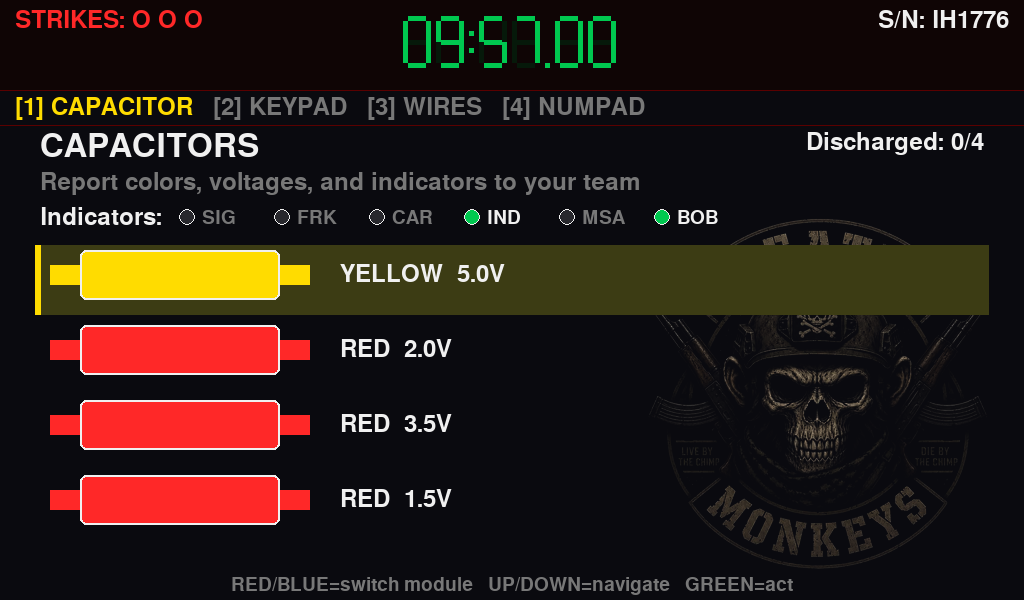
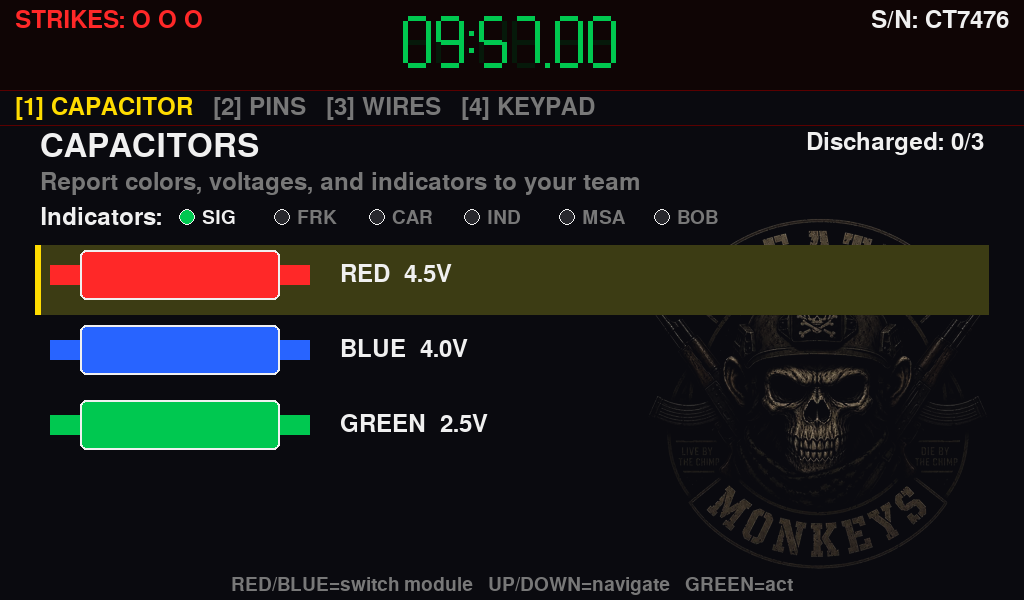
Map physical joystick buttons and fix missile launch START dependency
- Switch input handler from keyboard to DragonRise USB joystick events
- Store joystick references on App to prevent garbage collection dropping events
- Keep keyboard fallback (KEY_MAP) for dev/testing
- Missile launch: replace START with BLUE_BUTTON for code arm/transmit actions

diff --git a/modes/respawn_pool.py b/modes/respawn_pool.py
@@ -1,0 +1,192 @@
+import pygame
+import time
+from game_mode import GameMode
+from settings import COLORS, SCREEN_WIDTH, SCREEN_HEIGHT
+from widgets import draw_7seg_time
+from ui import draw_menu_item
+from presets import timer_presets
+
+TIMER_PRESETS = timer_presets(include_off=True)
+
+MIN_RESPAWNS = 1
+MAX_RESPAWNS = 99
+
+
+class RespawnPoolMode(GameMode):
+    name = "Respawn Pool"
+    mode_id = "respawn_pool"
+    description = "Track a shared pool of respawns for the whole team"
+
+    def setup(self, config=None):
+        config = config or {}
+        self.font_title = pygame.font.Font(None, 80)
+        self.font_big = pygame.font.Font(None, 220)
+        self.font_med = pygame.font.Font(None, 52)
+        self.font_sm = pygame.font.Font(None, 36)
+        self.respawn_selection = 10
+        self.timer_selection = 0
+        self.custom_minutes = 10
+        self.total_respawns = 0
+        self.remaining = 0
+        self.timer_total = 0
+        self.timer_remaining = 0
+
+        if "respawns" in config:
+            self._start_play(config["respawns"], config.get("timer", 0))
+        else:
+            self.phase = "setup_count"
+
+    def handle_input(self, actions):
+        if self.phase == "setup_count":
+            self._handle_setup_count(actions)
+        elif self.phase == "setup_timer":
+            self._handle_setup_timer(actions)
+        elif self.phase == "setup_custom":
+            self._handle_setup_custom(actions)
+        elif self.phase == "play":
+            self._handle_play(actions)
+
+    def _handle_setup_count(self, actions):
+        if "UP" in actions:
+            self.respawn_selection = min(MAX_RESPAWNS, self.respawn_selection + 1)
+        if "DOWN" in actions:
+            self.respawn_selection = max(MIN_RESPAWNS, self.respawn_selection - 1)
+        if "START" in actions or "GREEN_BUTTON" in actions:
+            self.phase = "setup_timer"
+
+    def _handle_setup_timer(self, actions):
+        if "UP" in actions:
+            self.timer_selection = (self.timer_selection - 1) % len(TIMER_PRESETS)
+        if "DOWN" in actions:
+            self.timer_selection = (self.timer_selection + 1) % len(TIMER_PRESETS)
+        if "RED_BUTTON" in actions:
+            self.phase = "setup_count"
+        if "START" in actions or "GREEN_BUTTON" in actions:
+            preset = TIMER_PRESETS[self.timer_selection][1]
+            if preset is None:
+                self.phase = "setup_custom"
+            else:
+                self._start_play(self.respawn_selection, preset)
+
+    def _handle_setup_custom(self, actions):
+        if "UP" in actions:
+            self.custom_minutes = min(99, self.custom_minutes + 1)
+        if "DOWN" in actions:
+            self.custom_minutes = max(1, self.custom_minutes - 1)
+        if "RED_BUTTON" in actions:
+            self.phase = "setup_timer"
+        if "START" in actions or "GREEN_BUTTON" in actions:
+            self._start_play(self.respawn_selection, self.custom_minutes * 60)
+
+    def _start_play(self, respawns, timer_seconds):
+        self.total_respawns = respawns
+        self.remaining = respawns
+        self.timer_total = timer_seconds
+        self.timer_remaining = timer_seconds
+        self.phase = "play"
+        self.play_start_time = time.time()
+
+    def _handle_play(self, actions):
+        if "GREEN_BUTTON" in actions and self.remaining > 0:
+            self.remaining -= 1
+            self.app.sound.play("confirm")
+        if "RED_BUTTON" in actions and self.remaining < self.total_respawns:
+            self.remaining += 1
+        if "START" in actions:
+            self.remaining = self.total_respawns
+            self.timer_remaining = self.timer_total
+            self.play_start_time = time.time()
+
+    def update(self, dt):
+        if self.phase == "play" and self.timer_total > 0:
+            self.timer_remaining = max(0.0, self.timer_remaining - dt)
+
+    def draw(self, screen):
+        if self.phase == "setup_count":
+            self._draw_setup_count(screen)
+        elif self.phase == "setup_timer":
+            self._draw_setup_timer(screen)
+        elif self.phase == "setup_custom":
+            self._draw_setup_custom(screen)
+        elif self.phase == "play":
+            self._draw_play(screen)
+
+    def _draw_setup_count(self, screen):
+        title = self.font_title.render("RESPAWN POOL", True, COLORS["yellow"])
+        screen.blit(title, title.get_rect(centerx=SCREEN_WIDTH // 2, y=30))
+
+        sub = self.font_sm.render("Set number of respawns", True, COLORS["white"])
+        screen.blit(sub, sub.get_rect(centerx=SCREEN_WIDTH // 2, y=110))
+
+        val = self.font_big.render(str(self.respawn_selection), True, COLORS["green"])
+        screen.blit(val, val.get_rect(center=(SCREEN_WIDTH // 2, SCREEN_HEIGHT // 2 - 20)))
+
+        hints = self.font_sm.render(
+            "UP/DOWN=adjust  START/GREEN=next", True, COLORS["grey"]
+        )
+        screen.blit(hints, hints.get_rect(centerx=SCREEN_WIDTH // 2, y=SCREEN_HEIGHT - 40))
+
+    def _draw_setup_timer(self, screen):
+        title = self.font_title.render("RESPAWN POOL", True, COLORS["yellow"])
+        screen.blit(title, title.get_rect(centerx=SCREEN_WIDTH // 2, y=30))
+
+        sub = self.font_sm.render("Set an optional timer", True, COLORS["white"])
+        screen.blit(sub, sub.get_rect(centerx=SCREEN_WIDTH // 2, y=110))
+
+        col_x = [200, 560]
+        row_h = 55
+        top = 150
+        per_col = (len(TIMER_PRESETS) + 1) // 2
+        for i, (label, _secs) in enumerate(TIMER_PRESETS):
+            x = col_x[i // per_col]
+            y = top + (i % per_col) * row_h
+            draw_menu_item(screen, self.font_med, label, i == self.timer_selection, x, y)
+
+        hints = self.font_sm.render(
+            "UP/DOWN=select  START/GREEN=confirm  RED=back", True, COLORS["grey"]
+        )
+        screen.blit(hints, hints.get_rect(centerx=SCREEN_WIDTH // 2, y=SCREEN_HEIGHT - 40))
+
+    def _draw_setup_custom(self, screen):
+        title = self.font_title.render("RESPAWN POOL", True, COLORS["yellow"])
+        screen.blit(title, title.get_rect(centerx=SCREEN_WIDTH // 2, y=30))
+
+        sub = self.font_sm.render("Set custom timer", True, COLORS["white"])
+        screen.blit(sub, sub.get_rect(centerx=SCREEN_WIDTH // 2, y=110))
+
+        val = self.font_med.render(f"{self.custom_minutes:02d}:00", True, COLORS["green"])
+        screen.blit(val, val.get_rect(center=(SCREEN_WIDTH // 2, SCREEN_HEIGHT // 2 - 10)))
+
+        label = self.font_sm.render("MINUTES", True, COLORS["grey"])
+        screen.blit(label, label.get_rect(centerx=SCREEN_WIDTH // 2, y=SCREEN_HEIGHT // 2 + 50))
+
+        hints = self.font_sm.render(
+            "UP/DOWN=adjust  START/GREEN=confirm  RED=back", True, COLORS["grey"]
+        )
+        screen.blit(hints, hints.get_rect(centerx=SCREEN_WIDTH // 2, y=SCREEN_HEIGHT - 40))
+
+    def _draw_play(self, screen):
+        title = self.font_med.render("RESPAWNS REMAINING", True, COLORS["white"])
+        screen.blit(title, title.get_rect(centerx=SCREEN_WIDTH // 2, y=40))
+
+        color = COLORS["red"] if self.remaining == 0 else COLORS["green"]
+        count = self.font_big.render(str(self.remaining), True, color)
+        screen.blit(count, count.get_rect(center=(SCREEN_WIDTH // 2, SCREEN_HEIGHT // 2 - 30)))
+
+        of_total = self.font_sm.render(f"of {self.total_respawns}", True, COLORS["grey"])
+        screen.blit(of_total, of_total.get_rect(centerx=SCREEN_WIDTH // 2, y=SCREEN_HEIGHT // 2 + 110))
+
+        if self.timer_total > 0:
+            timer_color = COLORS["red"] if self.timer_remaining < 30 else COLORS["white"]
+            seg_w, seg_h, seg_t, seg_gap = 18, 32, 4, 4
+            timer_pixel_w = 6 * (seg_w + seg_gap) + 2 * (seg_t + seg_gap)
+            draw_7seg_time(
+                screen, SCREEN_WIDTH // 2 - timer_pixel_w // 2, SCREEN_HEIGHT - 110,
+                self.timer_remaining, timer_color, seg_w, seg_h, seg_t, seg_gap,
+            )
+
+        hints = self.font_sm.render(
+            "GREEN=use respawn  RED=return one  START=reset", True, COLORS["grey"]
+        )
+        screen.blit(hints, hints.get_rect(centerx=SCREEN_WIDTH // 2, y=SCREEN_HEIGHT - 40))
+

diff --git a/game_registry.py b/game_registry.py
@@ -20,7 +20,28 @@ PHASE_OPTIONS = registry_options(PHASE_PRESETS)
 
 _CUSTOM = {"custom_min": CUSTOM_MIN_MINUTES, "custom_max": CUSTOM_MAX_MINUTES}
 
+RESPAWN_OPTIONS = [{"label": str(n), "value": n} for n in (5, 10, 15, 20, 25, 30)]
+
 GAME_MODES = {
+    "respawn_pool": {
+        "name": "Respawn Pool",
+        "description": "Track a shared pool of respawns for the whole team",
+        "settings": {
+            "respawns": {
+                "label": "Respawns",
+                "type": "choice",
+                "options": RESPAWN_OPTIONS,
+                "default": 10,
+            },
+            "timer": {
+                "label": "Timer",
+                "type": "choice",
+                "options": TIMER_OPTIONS_WITH_OFF,
+                "default": 0,
+                **_CUSTOM,
+            },
+        },
+    },
     "comms_hack": {
         "name": "Comms Array Hack",
         "description": "Enter 3 codes to hack the comms array before time runs out",
@@ -117,7 +138,10 @@ def get_mode_info(mode_id):
 
 def get_mode_class(mode_id):
     """Import and return the GameMode class for a mode."""
-    if mode_id == "comms_hack":
+    if mode_id == "respawn_pool":
+        from modes.respawn_pool import RespawnPoolMode
+        return RespawnPoolMode
+    elif mode_id == "comms_hack":
         from modes.comms_hack import CommsHackMode
         return CommsHackMode
     elif mode_id == "bomb_defusal":

diff --git a/settings.py b/settings.py
@@ -4,16 +4,24 @@ SCREEN_WIDTH = 1024
 SCREEN_HEIGHT = 600
 FPS = 30
 
-# USB encoder board button-to-action mapping.
-# Run `python3 -c "import pygame; pygame.init(); s=pygame.display.set_mode((200,200)); [print(e.key) for e in iter(lambda: pygame.event.wait(), None) if e.type==pygame.KEYDOWN]"`
-# to discover your board's keycodes, then update this map.
+# DragonRise Generic USB Joystick button-to-action mapping.
+# Discovered via JoyButtonDown events: button index → action.
 BUTTON_MAP = {
+    0: "BACK",        # Escape / kill match
+    1: "RED_BUTTON",
+    2: "BLUE_BUTTON",
+    3: "GREEN_BUTTON",
+    11: "UP",
+    10: "DOWN",
+}
+
+# Keyboard fallbacks for dev/testing without the joystick.
+KEY_MAP = {
     pygame.K_UP: "UP",
     pygame.K_DOWN: "DOWN",
     pygame.K_1: "RED_BUTTON",
     pygame.K_2: "BLUE_BUTTON",
     pygame.K_3: "GREEN_BUTTON",
-    pygame.K_5: "START",
     pygame.K_RETURN: "START",
     pygame.K_ESCAPE: "BACK",
 }

diff --git a/modes/missile_launch.py b/modes/missile_launch.py
@@ -277,7 +277,7 @@ class MissileLaunchMode(GameMode):
             self.app.sound.play("confirm")
         if "RED_BUTTON" in actions and self.secret_chars:
             self.secret_chars.pop()
-        if "START" in actions and self.secret_chars:
+        if "BLUE_BUTTON" in actions and self.secret_chars:
             self.app.sound.play("confirm")
             self._enter_prep()
 
@@ -289,7 +289,7 @@ class MissileLaunchMode(GameMode):
             self.app.sound.play("confirm")
         if "RED_BUTTON" in actions and self.input_chars:
             self.input_chars.pop()
-        if "START" in actions and self.input_chars:
+        if "BLUE_BUTTON" in actions and self.input_chars:
             if "".join(self.input_chars) == "".join(self.secret_chars):
                 self._begin_countdown()
             else:
@@ -524,7 +524,7 @@ class MissileLaunchMode(GameMode):
         screen.blit(cfg, cfg.get_rect(centerx=SCREEN_WIDTH // 2, y=400))
 
         hints = self.font_sm.render(
-            "UP/DOWN=char  GREEN=add  RED=delete  START=arm system", True, COLORS["grey"])
+            "UP/DOWN=char  GREEN=add  RED=delete  BLUE=arm system", True, COLORS["grey"])
         screen.blit(hints, hints.get_rect(centerx=SCREEN_WIDTH // 2, y=SCREEN_HEIGHT - 38))
 
     def _draw_missile(self, screen, cx, base_y, scale, flame, raised_pct=0.0):
@@ -787,7 +787,7 @@ class MissileLaunchMode(GameMode):
             screen.blit(fa, (130, 490))
 
         hint = self.font_sm.render(
-            "UP/DOWN=char  GREEN=add  RED=delete  START=transmit", True, COLORS["grey"])
+            "UP/DOWN=char  GREEN=add  RED=delete  BLUE=transmit", True, COLORS["grey"])
         screen.blit(hint, hint.get_rect(centerx=SCREEN_WIDTH // 2, y=SCREEN_HEIGHT - 38))
 
     def _draw_countdown(self, screen):
@@ -892,7 +892,7 @@ class MissileLaunchMode(GameMode):
             f"{stat}  |  Failed codes: {self.failed_attempts}", True, COLORS["white"])
         screen.blit(stats, stats.get_rect(center=(SCREEN_WIDTH // 2, SCREEN_HEIGHT // 2 + 70)))
 
-        prompt = self.font_sm.render("Press START to play again", True, COLORS["grey"])
+        prompt = self.font_sm.render("Press GREEN to play again", True, COLORS["grey"])
         screen.blit(prompt, prompt.get_rect(center=(SCREEN_WIDTH // 2, SCREEN_HEIGHT - 50)))
 
     def _save_history(self):

diff --git a/input_handler.py b/input_handler.py
@@ -1,4 +1,5 @@
 import pygame
+from settings import KEY_MAP
 
 
 class InputHandler:
@@ -10,7 +11,10 @@ class InputHandler:
         for event in pygame.event.get():
             if event.type == pygame.QUIT:
                 actions.append("QUIT")
+            elif event.type == pygame.JOYBUTTONDOWN:
+                if event.button in self.button_map:
+                    actions.append(self.button_map[event.button])
             elif event.type == pygame.KEYDOWN:
-                if event.key in self.button_map:
-                    actions.append(self.button_map[event.key])
+                if event.key in KEY_MAP:
+                    actions.append(KEY_MAP[event.key])
         return actions

diff --git a/app.py b/app.py
@@ -14,6 +14,10 @@ SCREENSHOT_FILE = Path(__file__).parent / "data" / "screen.jpg"
 class App:
     def __init__(self, fullscreen=True):
         pygame.init()
+        pygame.joystick.init()
+        self._joysticks = [pygame.joystick.Joystick(i) for i in range(pygame.joystick.get_count())]
+        for j in self._joysticks:
+            j.init()
         self.display = Display(SCREEN_WIDTH, SCREEN_HEIGHT, fullscreen)
         self.input = InputHandler(BUTTON_MAP)
         self.sound = SoundManager()

diff --git a/README.md b/README.md
@@ -4,6 +4,12 @@ Airsoft objective system built on a Raspberry Pi. Runs fullscreen game modes on 
 
 ## Game Modes
 
+### Respawn Pool
+
+A simple shared respawn counter for the whole team. Set how many respawns are in the pool and an optional timer, then use GREEN/RED to spend or return a respawn during the match.
+
+**Settings:** Respawns (5–30), Timer (off, 5–30 min in 5-min steps, or custom)
+
 ### Bomb Defusal
 
 A cooperative puzzle game inspired by *Keep Talking and Nobody Explodes*. One player interacts with the bomb on screen while teammates read the [defusal manual](docs/bomb_defusal_manual.md) over radio. Solve all modules before the timer runs out — three strikes and it detonates.